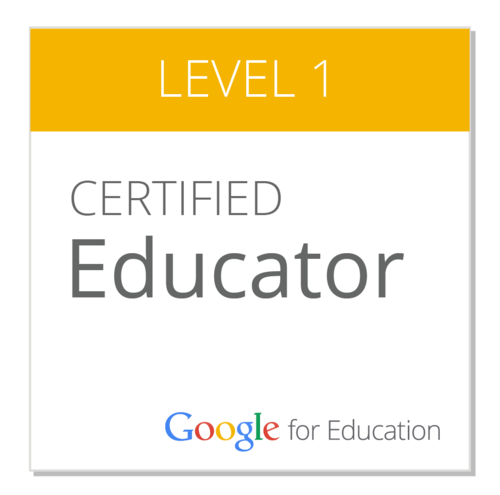
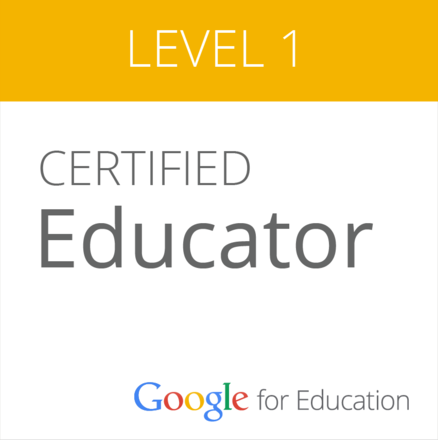
add new stuff

Changed region(s): [[0.0, 0.0, 1.0, 0.975], [0.089, 0.4727, 0.8607, 0.6205], [0.089, 0.325, 0.5936, 0.4432]]

diff --git a/src/app/Home.js b/src/app/Home.js
@@ -2,7 +2,7 @@ import React from "react";
 import Title from "./helpers/Title";
 
 const Home = () => (
-  <div>
+  <div className="page">
     <div className="home-section">
       <div className="columns">
         <div className="column bio-img">
@@ -54,21 +54,25 @@ const Home = () => (
         <Title text="Certifications" />
 
         <div className="certs-container">
-          <img
-            className="cert"
-            src="images/google-cert.png"
-            alt="google-cert"
-          />
-          <a
-            href="images/glad-certification.jpg"
-            data-lightbox="certifications"
-          >
+          <div className="cert-wrapper">
             <img
               className="cert"
-              src="images/glad-certification.jpg"
-              alt="glad-certification"
+              src="images/google-cert.png"
+              alt="google-cert"
             />
-          </a>
+          </div>
+          <div className="cert-wrapper">
+            <a
+              href="images/glad-certification.jpg"
+              data-lightbox="certifications"
+            >
+              <img
+                className="cert"
+                src="images/glad-certification.jpg"
+                alt="glad-certification"
+              />
+            </a>
+          </div>
         </div>
       </div>
     </div>

diff --git a/src/app/BlendedLearning.js b/src/app/BlendedLearning.js
@@ -63,7 +63,7 @@ const BlendedLearning = () => (
     </div>
 
     <div className="tile is-ancestor">
-      <div className="tile is-parent is-8">
+      <div className="tile is-parent is-6">
         <article className="tile is-child notification is-info">
           <p className="title">Team Task</p>
           <p className="subtitle">
@@ -87,13 +87,14 @@ const BlendedLearning = () => (
             Make an alien planet and include characteristics, plants, animals,
             and interesting facts as a group
           </p>
-          <figure className="image is-4by3">
-            <img
-              className="blended-learning-img"
-              src="images/do-ink.jpg"
-              alt="team-task-2"
-            />
-          </figure>
+          <iframe
+            src="https://www.youtube.com/embed/_2FMkC1fHDw"
+            width="100%"
+            height="380"
+            frameBorder="0"
+            allowtransparency="true"
+            allowFullScreen
+          />
         </article>
       </div>
     </div>

diff --git a/src/app/CGIMath.js b/src/app/CGIMath.js
@@ -6,12 +6,14 @@ const CGIMath = () => (
   <div className="page cgi-math">
     <Title text="CGI Math" />
 
+    <p className="subtitle">
+      I create word problems based on students’ interests, differentiate instruction by providing different number sets, and plan an inquiry-based instruction that is centered around the students needs. I challenge students to productively struggle and persevere with the growth mindset. They are given a safe place to share during class discussion and critique the reasoning of others. Students are strongly encouraged to use manipulatives, virtual tools online, and explain everything to show their thinking visually and orally.
+    </p>
     <div className="columns">
       <div className="column">
         <Picture
           ratio={true}
           src="images/cgi-math.jpg"
-          text="An example of a CGI Math class material I created."
         />
       </div>
     </div>

diff --git a/src/styles/Home.scss b/src/styles/Home.scss
@@ -11,6 +11,10 @@
     width: 1000px;
   }
 
+  .columns {
+    margin-top: 0;
+  }
+
   .column {
     display: flex;
     flex-direction: column;
@@ -19,7 +23,19 @@
 
   .bio-img {
     img {
-      float: right;
+      max-width: 350px;
+      max-height: 350px;
+      margin: 0 auto;
+      border-radius: 50%;
+
+      @include breakpoint(xs) {
+        max-width: 120px;
+        max-height: 120px;
+        align-self: flex-end;
+        position: absolute;
+        top: 0;
+        right: 60px;
+      }
     }
   }
 
@@ -30,10 +46,15 @@
   }
 
   .certs-container {
-    height: 200px;
+    .cert-wrapper {
+      display: inline-block;
+      height: 200px;
+    }
 
     img {
+      box-shadow: 1px 1px 10px 0px rgba(0, 0, 0, 0.75);
       height: 100%;
+      margin-right: 18px;
     }
   }
 

diff --git a/src/styles/Resume.scss b/src/styles/Resume.scss
@@ -15,7 +15,7 @@
 
   .resume-page-2 {
     @include breakpoint(sm) {
-      top: 32px;
+      top: 53px;
     }
   }
 }
